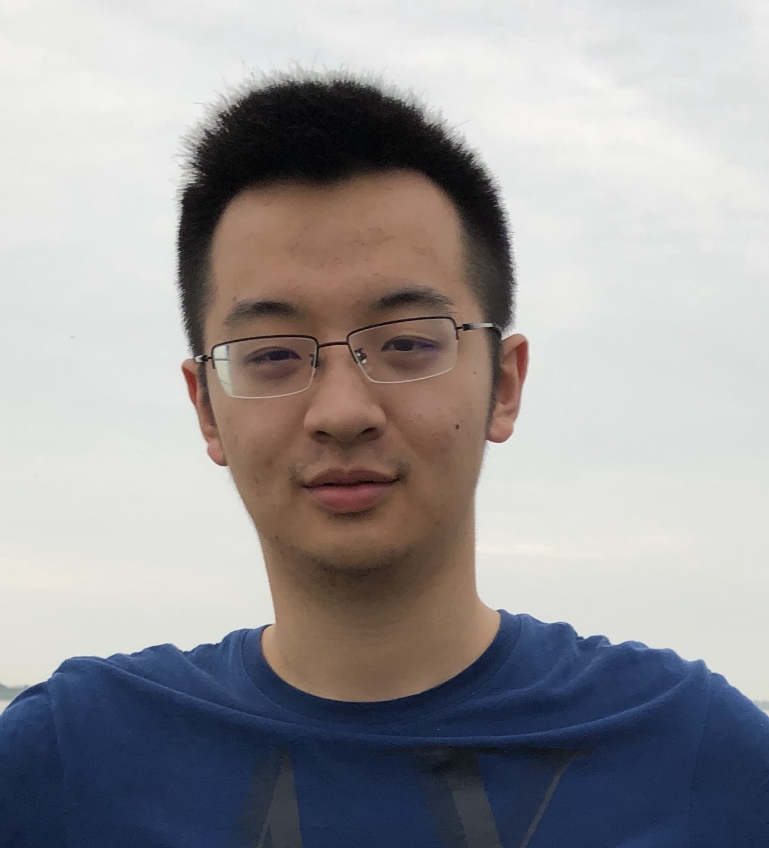
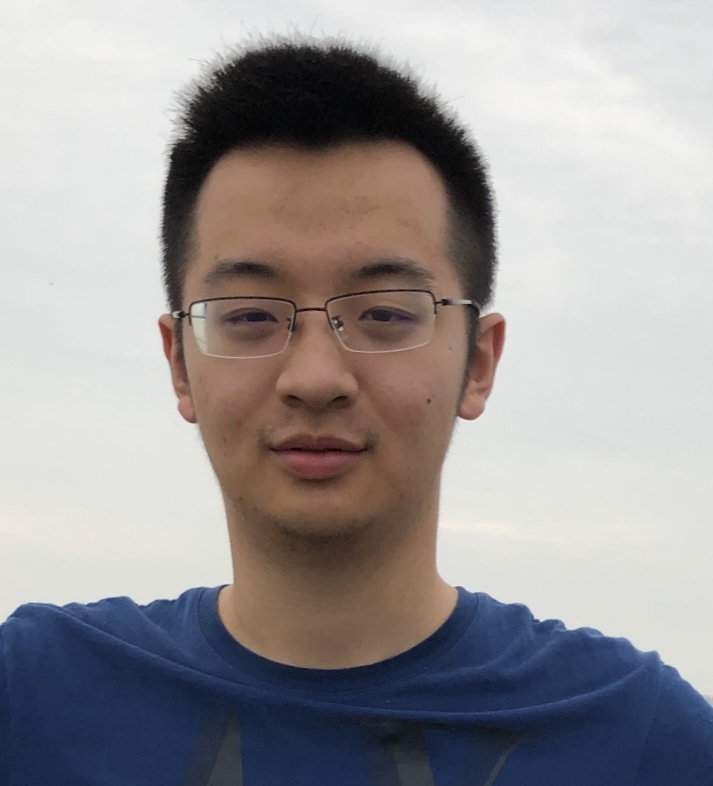
update bio and photo

diff --git a/content/authors/admin/_index.md b/content/authors/admin/_index.md
@@ -21,7 +21,7 @@ social:
     icon_pack: fab
     link: https://www.linkedin.com/in/zhaokai-wang-%E7%8E%8B%E8%82%87%E5%87%AF-5428181aa/
   - display:
-      header: false
+      header: true
     link: uploads/cv_wzk.pdf
     icon: cv
     icon_pack: ai
@@ -43,4 +43,4 @@ email: "self@wzk.plus"
 superuser: true
 highlight_name: true
 ---
-I am an undergraduate student in Shenyuan Honors College of Beihang University, majoring in computer science. I am also studying for a double degree in economics at National School of Development of Peking University. Currently I am an intern in fundamental vision department of [SenseTime](https://www.sensetime.com/), and also an intern student of <a href="http://colalab.org/">CoLab</a> supervised Prof. <a href="http://colalab.org/people">Si Liu</a>. Before this, I was an intern at <a href="https://sail.sea.com/">Sea AI Lab</a>. I will pursue PhD degree in Shanghai Jiao Tong University, where I will be supervised by Prof. <a href="https://jifengdai.org/">Jifeng Dai</a>.
+I am an undergraduate student in Shenyuan Honors College of Beihang University, majoring in computer science. I am also studying for a double degree in economics at National School of Development of Peking University. Currently I am an intern in fundamental vision department of [SenseTime](https://www.sensetime.com/), and also an intern student at <a href="http://colalab.org/">CoLab</a> supervised by Prof. <a href="http://colalab.org/people">Si Liu</a>. Before this, I was an intern at <a href="https://sail.sea.com/">Sea AI Lab</a>. I will pursue PhD degree in Shanghai Jiao Tong University, where I will be supervised by Prof. <a href="https://jifengdai.org/">Jifeng Dai</a>.
